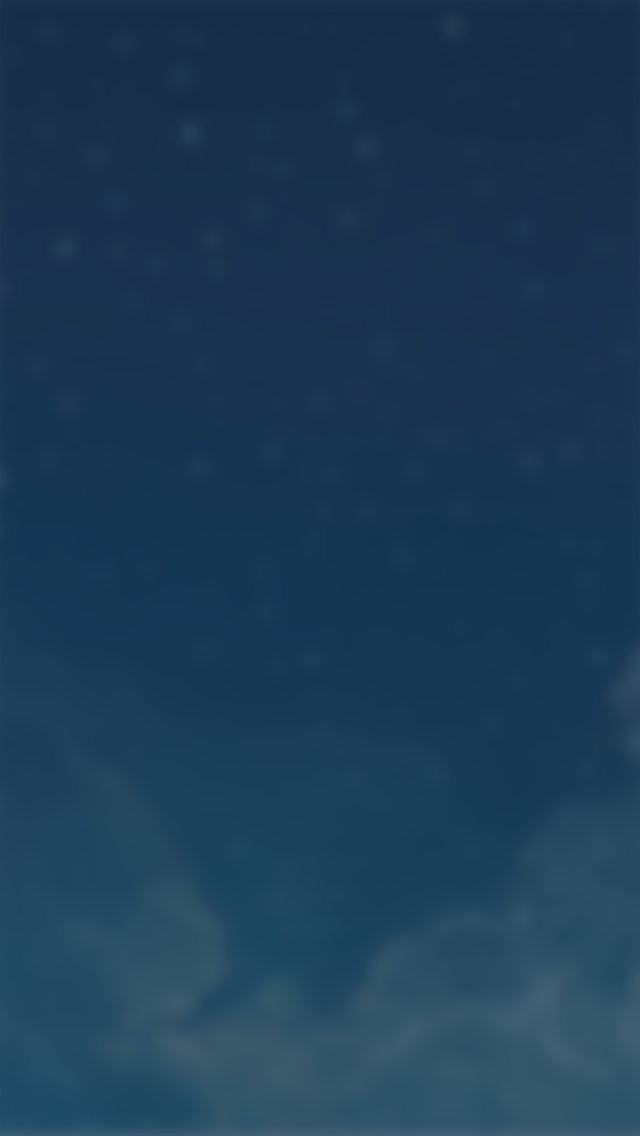
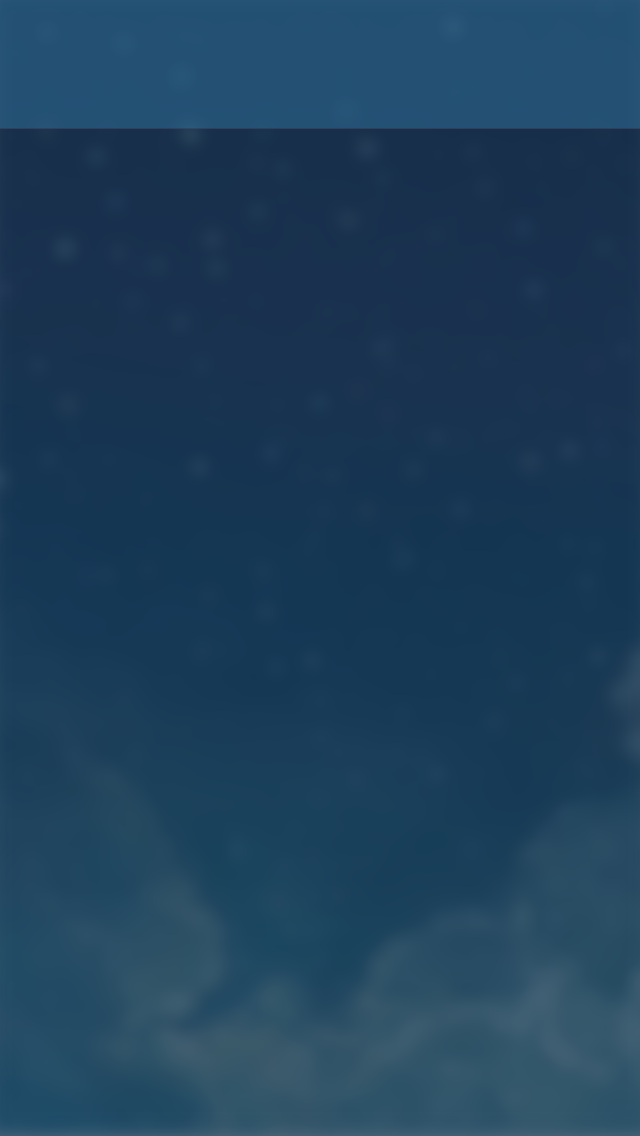
uber - lift integration

Changed region(s): [[0.0, 0.0, 1.0, 0.1232]]

diff --git a/ios/seq/seq/ViewController.m b/ios/seq/seq/ViewController.m
@@ -38,7 +38,7 @@ static float longitude;
     tableView.alpha = 0;
     self.tableView.separatorColor = [UIColor clearColor];
     
-    [tableView setScrollEnabled:NO];
+   // [tableView setScrollEnabled:NO];
     
     [tableView setSeparatorInset:UIEdgeInsetsZero];
     
@@ -46,6 +46,11 @@ static float longitude;
     
     [[UITextField appearanceWhenContainedIn:[UISearchBar class], nil] setTextColor:[UIColor whiteColor]];
     
+    [searchBar setBackgroundColor:[UIColor colorWithRed:52/255.0 green:126/255.0 blue:170/255.0 alpha:0.44]];
+    
+    self.edgesForExtendedLayout = UIRectEdgeNone;
+
+
 }
 
 - (void)didReceiveMemoryWarning
@@ -69,8 +74,8 @@ static float longitude;
     longitude =newLocation.coordinate.longitude;
     latitude=newLocation.coordinate.latitude;
     
-    NSLog(@"dLongitude : %f", longitude);
-    NSLog(@"dLatitude : %f", latitude);
+    //NSLog(@"dLongitude : %f", longitude);
+    //NSLog(@"dLatitude : %f", latitude);
     
 }
 
@@ -117,6 +122,25 @@ static float longitude;
     
 }
 
+-(int)findUberCellIndexPath:(int)numRows {
+    
+    //NSLog(@"# rows in sec: %d", [tableView numberOfRowsInSection:0]);
+    
+    for(int i = 0; i < numRows; i++) {
+        
+        UITableViewCell *cell = [tableView cellForRowAtIndexPath:[NSIndexPath indexPathForRow:i inSection:0]];
+        
+        //NSLog(@"reuse = %@", [cell reuseIdentifier]);
+        
+        if([[cell reuseIdentifier] isEqualToString:@"uber"]) {
+            //NSLog(@"uber = %d", i);
+            return i;
+        }
+    }
+    
+    return -1;
+}
+
 -(void)refreshTable {
     
     [tableView reloadSections:[NSIndexSet indexSetWithIndex:0] withRowAnimation:UITableViewRowAnimationAutomatic];
@@ -137,19 +161,29 @@ static float longitude;
     
     else if([[searchBar text]characterAtIndex:([[searchBar text]length] - 1)] == ' ' ){
         
-        matchedContexts = [[NSArray alloc] initWithArray:[self seq_context_query:searchText]];
-        
-        [self refreshTable];
+        //dispatch_async(dispatch_get_global_queue(DISPATCH_QUEUE_PRIORITY_HIGH, 0), ^{
+            
+            NSArray *newMatchedContexts = [self seq_context_query:searchText];
+            
+            if([newMatchedContexts isEqualToArray:matchedContexts]) ;
+            
+            else {
+                
+                matchedContexts = [[NSArray alloc] initWithArray:newMatchedContexts];
+                
+                [self refreshTable];
+            }
+       // });
     }
 }
 
--(void)preFetchResults {
+-(int)preFetchResults {
     
     // prefetch foursquare venue id
     if([matchedContexts containsObject:@"map"]) {
         dispatch_async(dispatch_get_global_queue(DISPATCH_QUEUE_PRIORITY_HIGH, 0), ^{
             venueID = [Foursquare getVenueIDForSearchQuery:[searchBar text]];
-            NSLog(@"fetched %@", venueID);
+            //NSLog(@"fetched %@", venueID);
         });
     }
     
@@ -157,19 +191,39 @@ static float longitude;
     if([matchedContexts containsObject:@"stay"]) {
         dispatch_async(dispatch_get_global_queue(DISPATCH_QUEUE_PRIORITY_HIGH, 0), ^{
             roomID = [[Airbnb getAirbnbRoomsForLocation:[searchBar text]]objectAtIndex:0];
-            NSLog(@"fetched %@", roomID);
+            //NSLog(@"fetched %@", roomID);
         });
         
         
     }
+    
+    int numItems = 0;
+    
+    for(int i = 0; i < matchedContexts.count; i++) {
+        numItems += [[contexts objectForKey:[matchedContexts objectAtIndex:i] ]count];
+    }
+    
+    //NSLog(@"contexts = %@", matchedContexts);
+    //NSLog(@"size = %d", numItems);
+    
+    return numItems;
+
 }
 
 
 -(void)searchBarSearchButtonClicked:(UISearchBar *)searchBar {
     
-    [self preFetchResults];
+    int numRows = [self preFetchResults];
     
-    NSLog(@"attempting change");
+    //NSLog(@"attempting change");
+    
+    
+    //NSLog(@"index = %d", index);
+  //
+    
+   // [[[tableView cellForRowAtIndexPath:[NSIndexPath indexPathForRow:index inSection:0]]detailTextLabel]setText:description];
+    
+    [tableView reloadData];
     
    // tableView.rowHeight = 75.0f;
 
@@ -215,7 +269,8 @@ static float longitude;
         numItems += [[contexts objectForKey:[matchedContexts objectAtIndex:i] ]count];
     }
     
-    NSLog(@"contexts = %@", matchedContexts);
+    //NSLog(@"contexts = %@", matchedContexts);
+    //NSLog(@"size = %d", numItems);
     
     return numItems;
     
@@ -237,6 +292,8 @@ static float longitude;
     NSString *appName = [contextApps objectAtIndex:[indexPath row]];
     
     UITableViewCell *cell;
+    
+    //NSLog(@"%@", appName);
     
     //cell = [tableView dequeueReusableCellWithIdentifier:appName];
     
@@ -280,7 +337,7 @@ static float longitude;
 
 - (CGFloat)tableView:(UITableView *)tableView heightForRowAtIndexPath:(NSIndexPath *)indexPath
 {
-    NSLog(@"curr height = %f", rowHeight);
+    ////NSLog(@"curr height = %f", rowHeight);
     return rowHeight;
 }
 
@@ -300,7 +357,8 @@ static float longitude;
     }
     
     else if([appName isEqualToString:@"uber"]) {
-        return @"Get here with Uber";
+        NSString *eta = [self getUberETA];
+        return [NSString stringWithFormat:@"Ready for pickup in %@ minutes", eta];
     }
     
     else if([appName isEqualToString:@"apple-maps"]) {
@@ -397,8 +455,8 @@ static float longitude;
 
 - (void)openSchemeForAppName:(NSString *)appName withQuery:(NSString *)query {
     
-    NSLog(@"opening scheme for [%@]", appName);
-    NSLog(@"with query [%@]", query);
+    //NSLog(@"opening scheme for [%@]", appName);
+    //NSLog(@"with query [%@]", query);
     
     if([appName isEqualToString:@"yelp"]) {
         [AppSwitch launchYelpWithSearchQuery:query];
@@ -428,12 +486,12 @@ static float longitude;
     }
     
     else if([appName isEqualToString:@"foursquare"]) {
-        NSLog(@"venue id = %@", venueID);
+        //NSLog(@"venue id = %@", venueID);
         [AppSwitch launchFoursquareWithVenueID:venueID];
     }
     
     else if([appName isEqualToString:@"airbnb"]) {
-        NSLog(@"room id = %@", roomID);
+        //NSLog(@"room id = %@", roomID);
         [AppSwitch launchAirbnbWithRoomID:roomID];
     }
     
@@ -452,7 +510,7 @@ static float longitude;
     }
     
     else if([appName isEqualToString:@"hipmunk-hotels"]) {
-        [AppSwitch launchHipmunkHotelsSearch];
+        [AppSwitch launchHipmunkHotelSearch];
     }
     
     else if([appName isEqualToString:@"hipmunk-flights"]) {
@@ -465,9 +523,11 @@ static float longitude;
 
 -(NSString *)getUberETA {
     
-    NSString *urlString = [NSString stringWithFormat:@"104.131.208.31:5000/nearest_uber?latitude=%f&longitude=%f", latitude, longitude];
+    NSString *urlString = [NSString stringWithFormat:@"http://104.131.208.31:5000/nearest_uber?latitude=%f&longitude=%f", latitude, longitude];
     
     NSURL *url = [NSURL URLWithString:urlString];
+    
+   // //NSLog(@"url = %@", url);
     
     NSURLRequest *request = [[NSURLRequest alloc] initWithURL:url];
     
@@ -479,14 +539,15 @@ static float longitude;
                                                          options:0
                                                            error:nil];
     
- 
+   // //NSLog(@"json = %@", json);
+    
     return [json objectForKey:@"eta"];
     
 }
 
 - (NSArray *) seq_context_query:(NSString *)query {
     
-    NSString *urlString = @"http://seqnlp.herokuapp.com/?q=";
+    NSString *urlString = @"http://104.131.208.31:5000/?q=";
     urlString = [urlString stringByAppendingString:[query stringByReplacingOccurrencesOfString:@" " withString:@"+"]];
     
     NSURL *url = [NSURL URLWithString:urlString];

diff --git a/ios/seq/seq/AppSwitch.m b/ios/seq/seq/AppSwitch.m
@@ -79,19 +79,22 @@
 #pragma mark Yelp
 + (void)launchYelpWithSearchQuery:(NSString *)query {
     
+    query = [query stringByReplacingOccurrencesOfString:@" " withString:@"+"];
+    
     NSString *urlString = @"yelp:///search?terms=";
     urlString = [urlString stringByAppendingString:query];
     NSURL *url = [NSURL URLWithString:urlString];
     
     
-    if ([[UIApplication sharedApplication] canOpenURL:url]) {
+   // if ([[UIApplication sharedApplication] canOpenURL:url]) {
         [[UIApplication sharedApplication] openURL:url];
-    }
+   /* }
     
     else {
         NSString *appStoreLink = @"itms-apps://itunes.apple.com/us/app/yelp/id284910350?mt=8";
         [[UIApplication sharedApplication] openURL:[NSURL URLWithString:appStoreLink]];
     }
+    */
     
 }
 

diff --git a/ios/seq/seq/AppSwitch.h b/ios/seq/seq/AppSwitch.h
@@ -42,6 +42,6 @@
 
 + (void)launchHipmunkFlightSearch;
 
-+ (void)launchHipmunkHotelsSearch;
++ (void)launchHipmunkHotelSearch;
 
 @end
